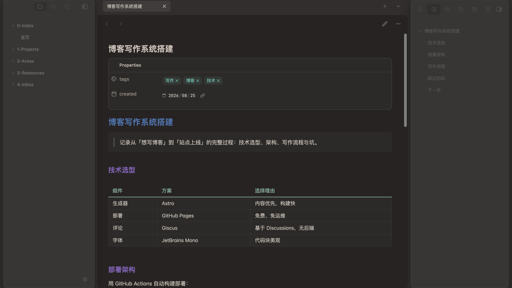
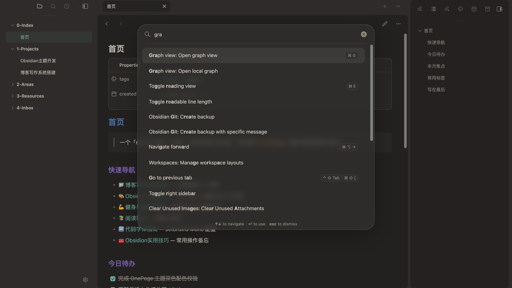
优化: 聚焦弱化0.72→0.92, 非透明模式边栏实色; 更新首页版预览图(编辑/阅读/深色/最近/演示)

diff --git a/theme.css b/theme.css
@@ -295,7 +295,7 @@ body:is(.mod-macos,.adaptive-mode-off):not(.is-mobile).is-focused.is-translucent
 /* 当激活的是笔记(编辑/阅读)时, 侧栏和其余 tab 弱化, 悬停/点击恢复 */
 body:has(.workspace-leaf.mod-active .markdown-source-view) .workspace-split.mod-sidedock,
 body:has(.workspace-leaf.mod-active .markdown-reading-view) .workspace-split.mod-sidedock {
-  opacity: 0.72;
+  opacity: 0.92;
 }
 body:has(.workspace-leaf.mod-active .markdown-source-view) .workspace-split.mod-sidedock:hover,
 body:has(.workspace-leaf.mod-active .markdown-source-view) .workspace-split.mod-sidedock:focus-within,
@@ -781,4 +781,9 @@ body.is-translucent .modal:not(.mod-sidebar-layout) {
   background-color: color-mix(in srgb, var(--text-accent) 18%, var(--background-primary)) !important;
   border-color: color-mix(in srgb, var(--text-accent) 45%, transparent) !important;
   color: var(--text-accent) !important;
+}
+
+/* ---------- OnePage: 非透明模式边栏实色 (透明模式仍为毛玻璃) ---------- */
+body:not(.is-translucent) .workspace-split.mod-sidedock {
+  background-color: var(--background-secondary) !important;
 }
